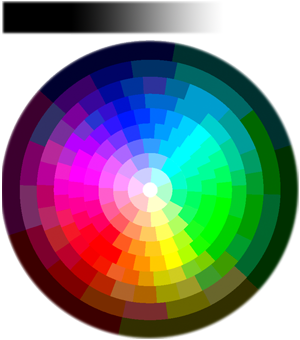
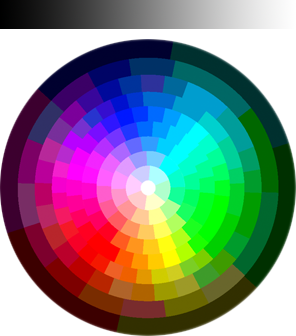
Color wheel image cleaned.

diff --git a/MyPaint/ColorPicker.m b/MyPaint/ColorPicker.m
@@ -12,9 +12,9 @@
 
 - (id)init
 {
-  self = [super initWithFrame:CGRectMake(0, 0, 300, 340)];
+  self = [super initWithFrame:[self prefferedFrame]];
   if (self) {
-    self.backgroundColor = [UIColor whiteColor];
+    self.backgroundColor = [self defaultBackgroundColor];
   }
   
   return self;
@@ -83,6 +83,20 @@
 - (UIImage *)colorWheelImage
 {
   return [UIImage imageNamed:@"color-wheel.png"];
+}
+
+- (CGRect)prefferedFrame
+{
+  return (CGRect){
+    .origin = CGPointMake(0.0f, 0.0f),
+    .size = [[self colorWheelImage] size]
+  };
+}
+
+- (UIColor *)defaultBackgroundColor
+{
+  // To fit popover border nicely
+  return [UIColor colorWithRed:12 green:20 blue:41 alpha:0.2];
 }
 
 #pragma mark - Color picking
